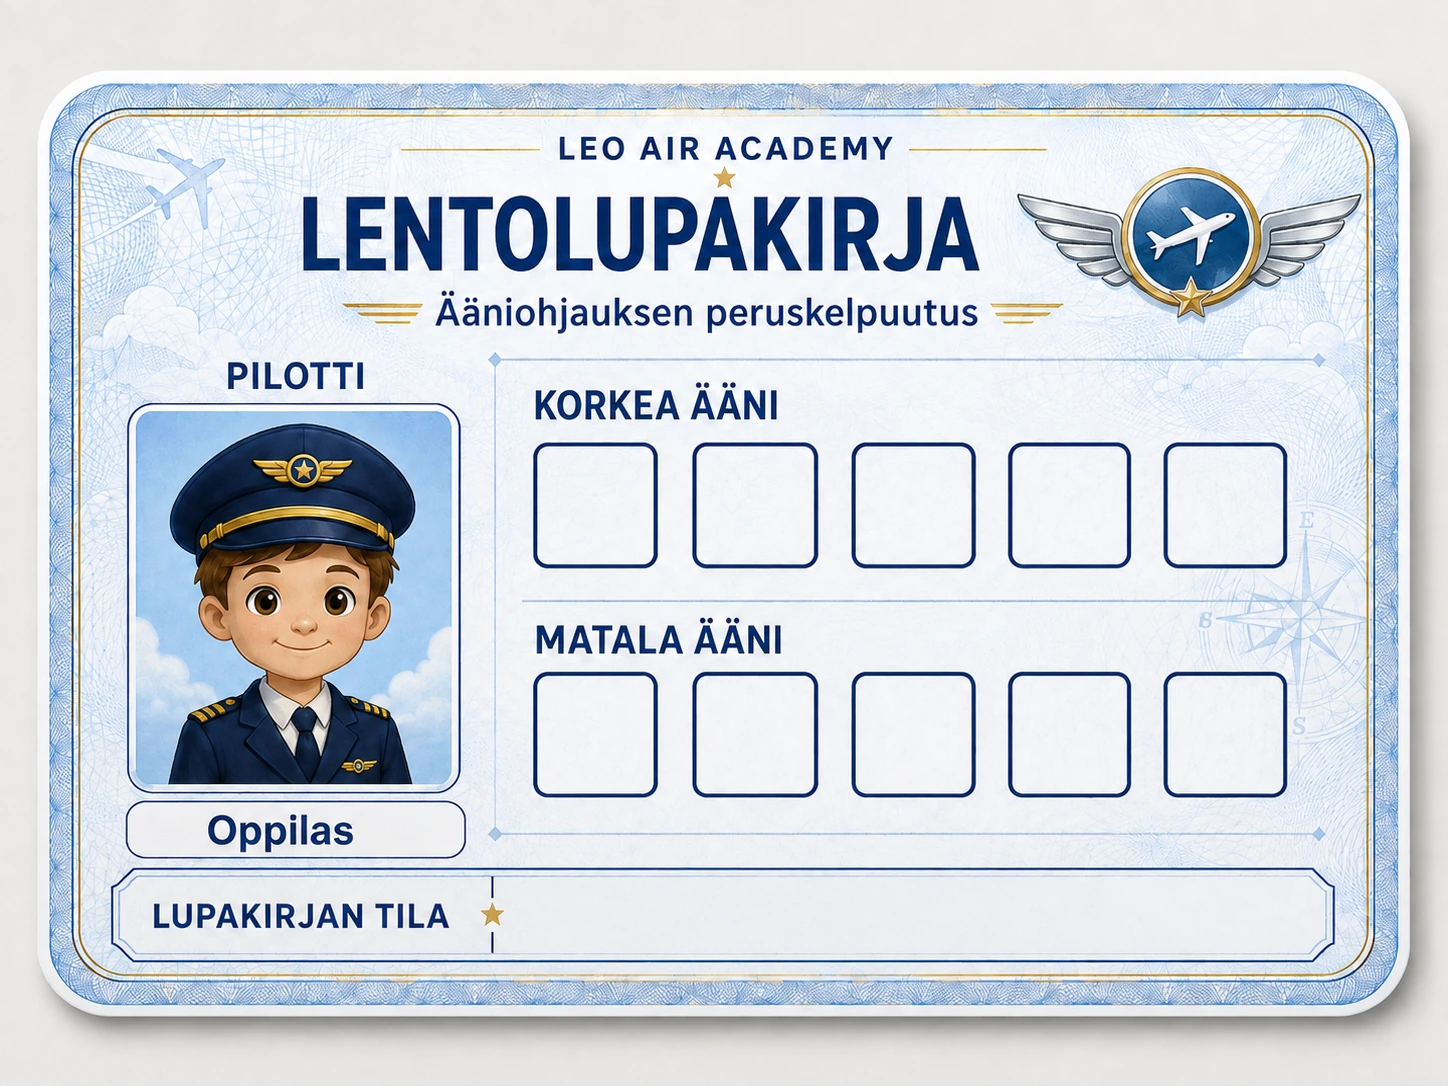
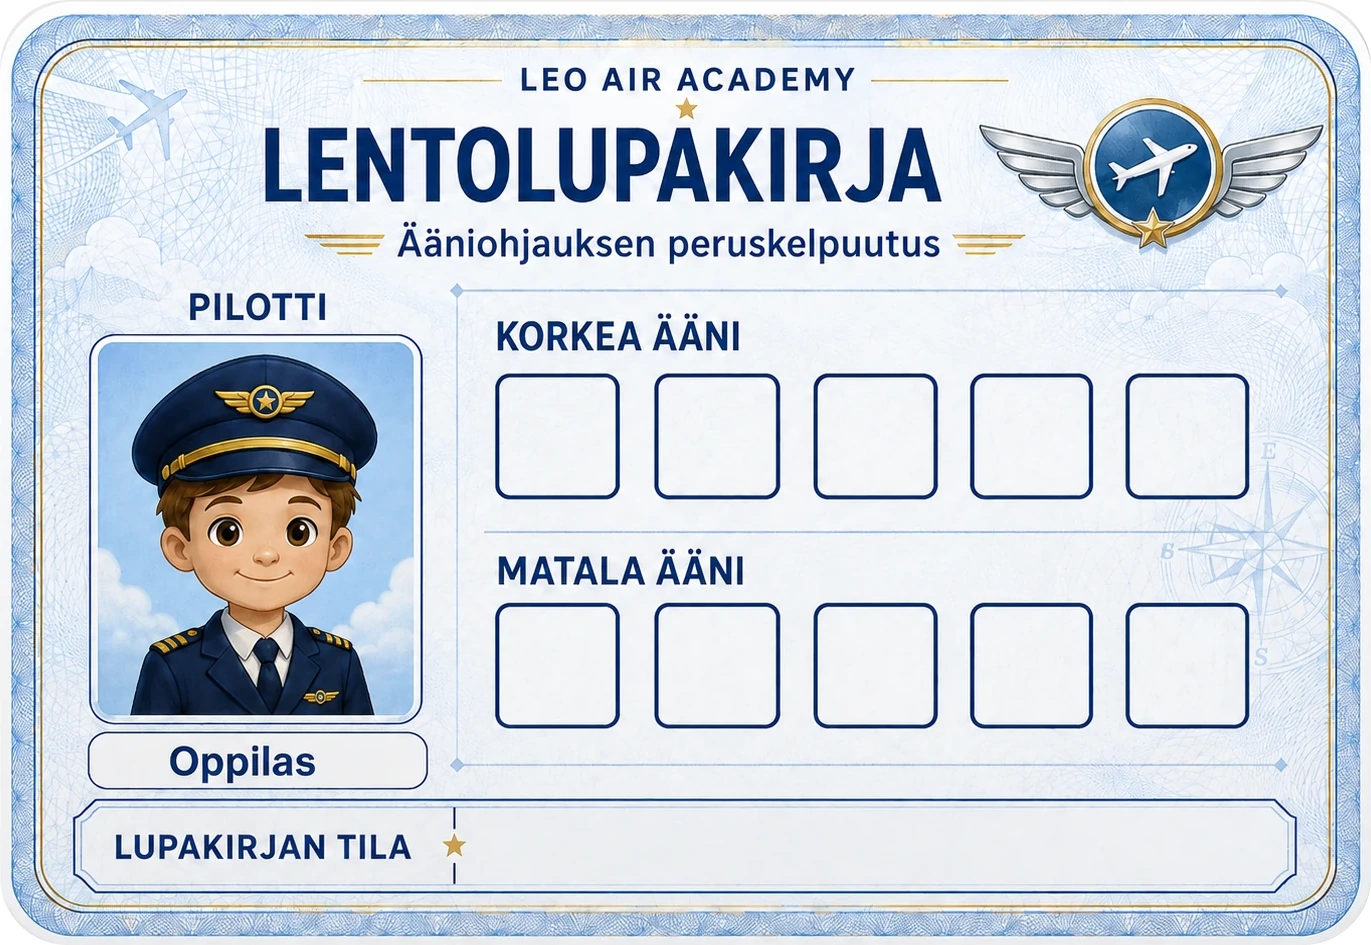
fghfh

diff --git a/Leo/index.html b/Leo/index.html
@@ -700,7 +700,7 @@ body{
   }
 }
 
-/* ===== Lentäjän lupakirjatesti 3.75: WebP-kortti, vapaa korkea/matala ===== */
+/* ===== Lentäjän lupakirjatesti 3.77: rajattu WebP-kortti, vapaa korkea/matala ===== */
 .licenseScreen{
   position:absolute;inset:0;z-index:40;display:flex;flex-direction:column;
   align-items:center;justify-content:center;gap:10px;padding:12px;
@@ -708,14 +708,11 @@ body{
 }
 .licenseVisual{
   position:relative;
-  width:min(calc(100vw - 24px),calc((100dvh - 118px) * 4 / 3),1120px);
-  aspect-ratio:4/3;flex:0 1 auto;
+  width:min(calc(100vw - 24px),calc((100dvh - 118px) * 1.2625),1060px);
+  aspect-ratio:1371/945;flex:0 1 auto;
 }
 .licenseImage{
   display:block;width:100%;height:100%;object-fit:contain;
-  /* 3.76: piilotetaan vain WebP-kuvaan leivottu vaalea alusta ja sen varjo.
-     Itse lupakirjakortti ja sen sisäinen kehys säilyvät muuttumattomina. */
-  clip-path:inset(6.4% 2.5% 7.7% 2.5% round 4.2%);
   border-radius:0;box-shadow:none;
 }
 .licenseCheck{
@@ -728,7 +725,7 @@ body{
 }
 .licenseCheck.done{opacity:1;transform:translate(-50%,-50%) scale(1)}
 .licenseStatusText{
-  position:absolute;left:34.1%;top:82.45%;width:54.9%;height:6.1%;
+  position:absolute;left:33.243%;top:87.450%;width:57.983%;height:7.010%;
   display:flex;align-items:center;justify-content:center;text-align:center;
   color:#123b76;font-size:clamp(11px,1.5vw,22px);font-weight:850;
   letter-spacing:.012em;line-height:1.08;white-space:nowrap;pointer-events:none;
@@ -751,7 +748,7 @@ body{
 .licenseComplete.visible{display:inline-block}
 @media(max-width:680px){
   .licenseScreen{gap:7px;padding:8px}
-  .licenseVisual{width:min(calc(100vw - 16px),calc((100dvh - 142px) * 4 / 3))}
+  .licenseVisual{width:min(calc(100vw - 16px),calc((100dvh - 142px) * 1.2625),1060px)}
   .licenseStatusText{font-size:clamp(9px,1.8vw,14px)}
   .licenseControls{gap:6px}.licensePrompt,.licenseFeedback{min-width:0;width:100%}
   .licenseActions button{min-width:150px;min-height:40px;padding:7px 12px;font-size:13px}
@@ -1963,7 +1960,7 @@ function bindSplashStartButton(){
 }
 
 function licenseChecksHtml(idPrefix,rowTop){
-  const xs=[40.05,50.78,61.45,72.06,82.65];
+  const xs=[39.528,50.860,62.130,73.335,84.520];
   let html='';
   for(let i=0;i<5;i++){
     html+='<span class="licenseCheck" id="'+idPrefix+i+'" aria-hidden="true" style="left:'+xs[i]+'%;top:'+rowTop+'%">✓</span>';
@@ -2016,8 +2013,8 @@ function renderLicenseOverlay(){
     '<div class="licenseScreen">'+
       '<div class="licenseVisual">'+
         '<img class="licenseImage" src="lentolupakirja.webp" alt="Leo Air Academy -lentolupakirja">'+
-        licenseChecksHtml('licenseH',45.25)+
-        licenseChecksHtml('licenseL',65.95)+
+        licenseChecksHtml('licenseH',44.70)+
+        licenseChecksHtml('licenseL',68.489)+
         '<div id="licenseStatusText" class="licenseStatusText">KORKEA ÄÄNI 0/5  •  MATALA ÄÄNI 0/5</div>'+
       '</div>'+
       '<div class="licenseControls">'+
